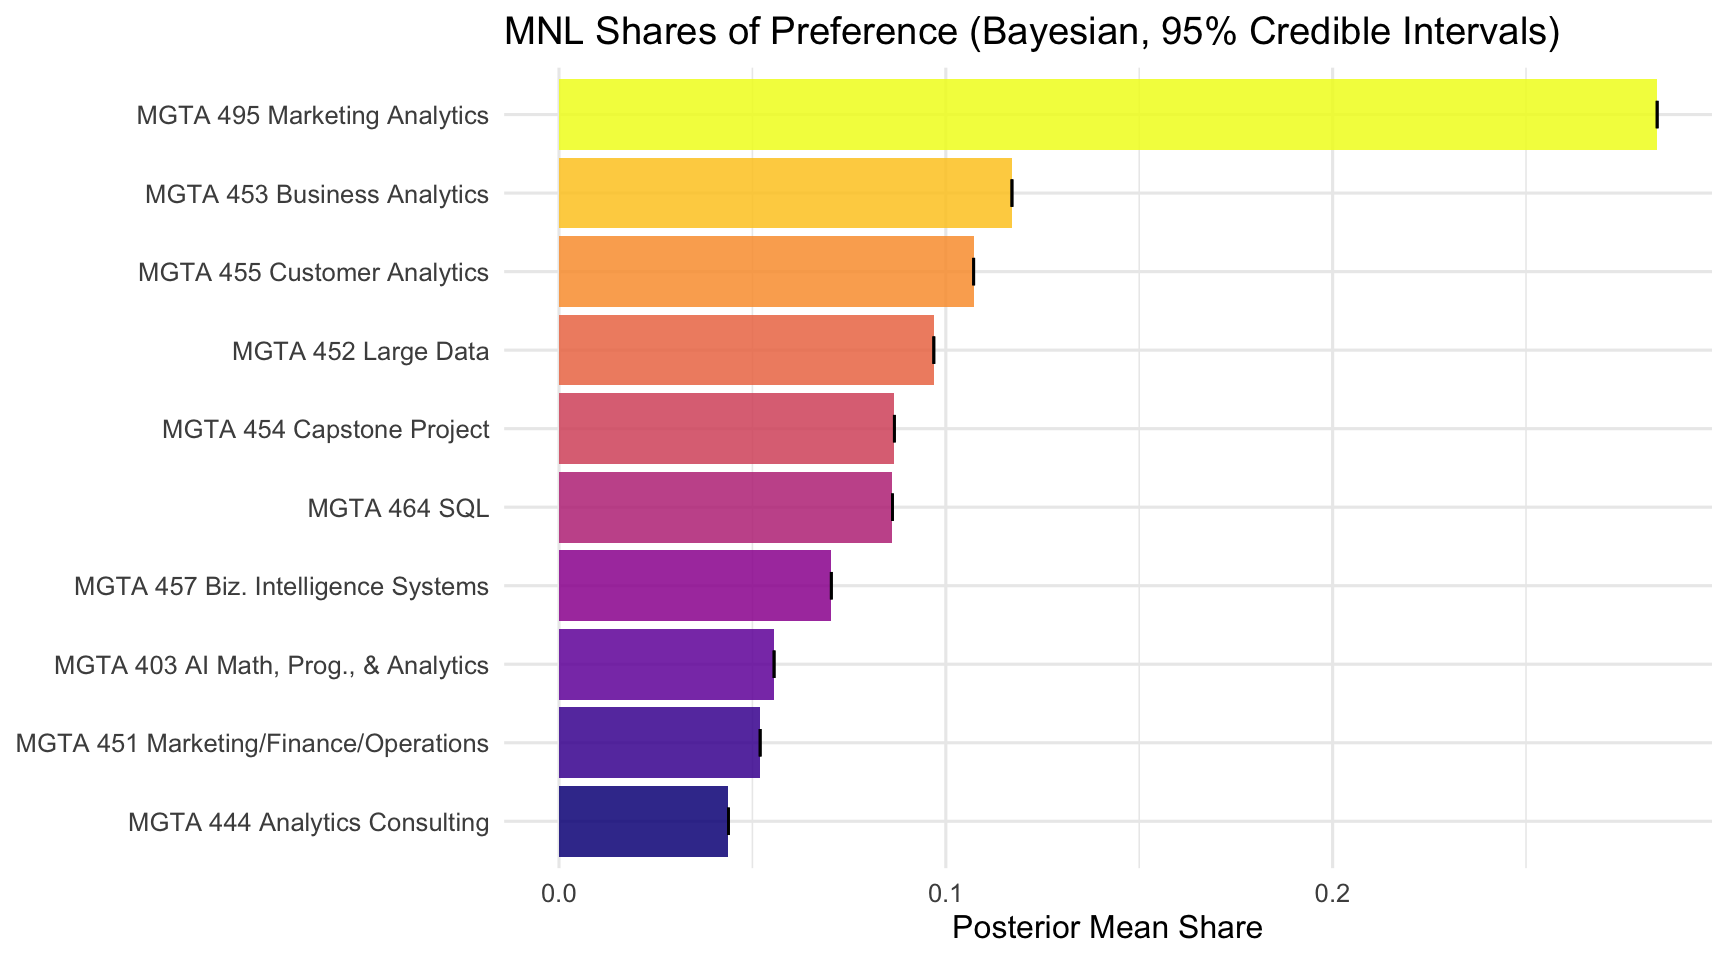
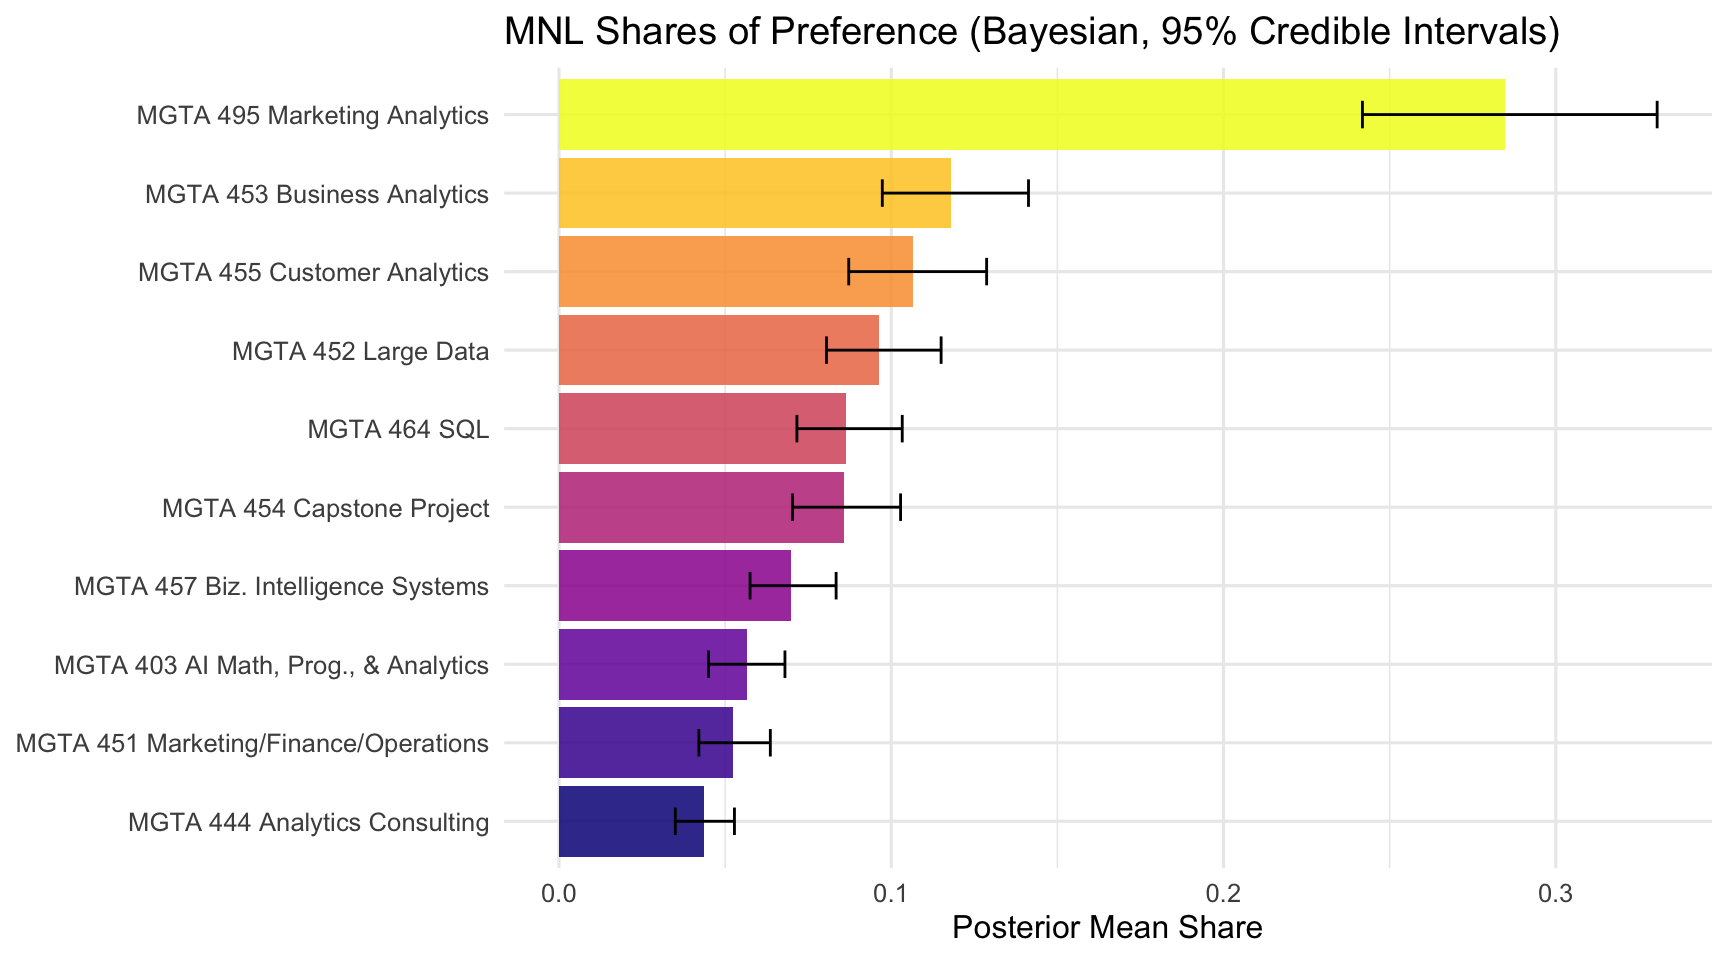
fix MCMC and numbers

diff --git a/docs/blog/Four-post.html b/docs/blog/Four-post.html
@@ -319,8 +319,8 @@ window.Quarto = {
 <span id="cb15-7"><a href="#cb15-7" aria-hidden="true" tabindex="-1"></a>    <span class="at">.groups =</span> <span class="st">"drop"</span></span>
 <span id="cb15-8"><a href="#cb15-8" aria-hidden="true" tabindex="-1"></a>  )</span>
 <span id="cb15-9"><a href="#cb15-9" aria-hidden="true" tabindex="-1"></a></span>
-<span id="cb15-10"><a href="#cb15-10" aria-hidden="true" tabindex="-1"></a>n_valid   <span class="ot">&lt;-</span> <span class="fu">sum</span>(check<span class="sc">$</span>n_best <span class="sc">==</span> <span class="dv">1</span> <span class="sc">&amp;</span> check<span class="sc">$</span>n_worst <span class="sc">==</span> <span class="dv">1</span> <span class="sc">&amp;</span> check<span class="sc">$</span>n_zero <span class="sc">==</span> <span class="dv">2</span>)</span>
-<span id="cb15-11"><a href="#cb15-11" aria-hidden="true" tabindex="-1"></a>n_total   <span class="ot">&lt;-</span> <span class="fu">nrow</span>(check)</span>
+<span id="cb15-10"><a href="#cb15-10" aria-hidden="true" tabindex="-1"></a>n_valid <span class="ot">&lt;-</span> <span class="fu">sum</span>(check<span class="sc">$</span>n_best <span class="sc">==</span> <span class="dv">1</span> <span class="sc">&amp;</span> check<span class="sc">$</span>n_worst <span class="sc">==</span> <span class="dv">1</span> <span class="sc">&amp;</span> check<span class="sc">$</span>n_zero <span class="sc">==</span> <span class="dv">2</span>)</span>
+<span id="cb15-11"><a href="#cb15-11" aria-hidden="true" tabindex="-1"></a>n_total <span class="ot">&lt;-</span> <span class="fu">nrow</span>(check)</span>
 <span id="cb15-12"><a href="#cb15-12" aria-hidden="true" tabindex="-1"></a></span>
 <span id="cb15-13"><a href="#cb15-13" aria-hidden="true" tabindex="-1"></a><span class="fu">cat</span>(<span class="st">"Total tasks:"</span>, n_total, <span class="st">"</span><span class="sc">\n</span><span class="st">"</span>)</span></code></pre></div><button title="Copy to Clipboard" class="code-copy-button"><i class="bi"></i></button></div>
 </details>
@@ -345,7 +345,7 @@ window.Quarto = {
 <div class="cell">
 <details class="code-fold">
 <summary>Code</summary>
-<div class="code-copy-outer-scaffold"><div class="sourceCode cell-code" id="cb21"><pre class="sourceCode r code-with-copy"><code class="sourceCode r"><span id="cb21-1"><a href="#cb21-1" aria-hidden="true" tabindex="-1"></a><span class="co"># Keep only tasks that are structurally complete (exactly 1 best, 1 worst, 2 neutral)</span></span>
+<div class="code-copy-outer-scaffold"><div class="sourceCode cell-code" id="cb21"><pre class="sourceCode r code-with-copy"><code class="sourceCode r"><span id="cb21-1"><a href="#cb21-1" aria-hidden="true" tabindex="-1"></a><span class="co"># Keep only tasks that are structurally complete</span></span>
 <span id="cb21-2"><a href="#cb21-2" aria-hidden="true" tabindex="-1"></a>valid_tasks <span class="ot">&lt;-</span> check <span class="sc">|&gt;</span></span>
 <span id="cb21-3"><a href="#cb21-3" aria-hidden="true" tabindex="-1"></a>  <span class="fu">filter</span>(n_best <span class="sc">==</span> <span class="dv">1</span>, n_worst <span class="sc">==</span> <span class="dv">1</span>, n_zero <span class="sc">==</span> <span class="dv">2</span>) <span class="sc">|&gt;</span></span>
 <span id="cb21-4"><a href="#cb21-4" aria-hidden="true" tabindex="-1"></a>  <span class="fu">select</span>(resp_id, task)</span>
@@ -672,7 +672,7 @@ window.Quarto = {
 </div>
 </div>
 </div>
-<p>The chart reveals a clear preference hierarchy. MGTA 495 Marketing Analytics ranks at the top by a wide margin (score = 0.567), while MGTA 444 Analytics Consulting ranks at the bottom (score = −0.155). The confidence intervals for the top and bottom items do not overlap with those in the middle, confirming these rankings are not driven by chance.</p>
+<p>The chart reveals a clear preference hierarchy. MGTA 495 Marketing Analytics ranks at the top by a wide margin (score = 0.493), while MGTA 444 Analytics Consulting ranks at the bottom (score = −0.292). The confidence intervals for the top and bottom items do not overlap with those in the middle, confirming these rankings are not driven by chance.</p>
 </section>
 <section id="from-maxdiff-data-to-mnl-choices" class="level2">
 <h2 class="anchored" data-anchor-id="from-maxdiff-data-to-mnl-choices">From MaxDiff Data to MNL Choices</h2>
@@ -925,7 +925,7 @@ P(\text{worst} = c \mid \text{best} = b) \;=\; \frac{\exp(-\beta_c)}{\exp(-\beta
 </div>
 </div>
 </div>
-<p>The MLE ranking closely mirrors the counts analysis — MGTA 495 Marketing Analytics is the most preferred class by a large margin, and MGTA 444 Analytics Consulting is the least preferred. Differences from the counts analysis appear in the middle tier, where the MNL makes more efficient use of the data: every task where an item was <em>shown but not picked</em> contributes evidence about its relative utility.</p>
+<p>The MLE ranking closely mirrors the counts analysis — MGTA 495 Marketing Analytics is the most preferred class by a large margin (share = 0.2839), and MGTA 444 Analytics Consulting is the least preferred (share = 0.0438). Differences from the counts analysis appear in the middle tier, where the MNL makes more efficient use of the data: every task where an item was <em>shown but not picked</em> contributes evidence about its relative utility.</p>
 </section>
 <section id="mnl-via-bayesian-estimation" class="level2">
 <h2 class="anchored" data-anchor-id="mnl-via-bayesian-estimation">MNL via Bayesian Estimation</h2>
@@ -974,13 +974,13 @@ P(\text{worst} = c \mid \text{best} = b) \;=\; \frac{\exp(-\beta_c)}{\exp(-\beta
 <div class="code-copy-outer-scaffold"><div class="sourceCode cell-code" id="cb45"><pre class="sourceCode r code-with-copy"><code class="sourceCode r"><span id="cb45-1"><a href="#cb45-1" aria-hidden="true" tabindex="-1"></a>mcmc_out <span class="ot">&lt;-</span> <span class="fu">mh</span>(</span>
 <span id="cb45-2"><a href="#cb45-2" aria-hidden="true" tabindex="-1"></a>  <span class="at">beta0    =</span> out<span class="sc">$</span>par,</span>
 <span id="cb45-3"><a href="#cb45-3" aria-hidden="true" tabindex="-1"></a>  <span class="at">n_iter   =</span> <span class="dv">20000</span>,</span>
-<span id="cb45-4"><a href="#cb45-4" aria-hidden="true" tabindex="-1"></a>  <span class="at">step     =</span> <span class="fl">0.8</span>,</span>
+<span id="cb45-4"><a href="#cb45-4" aria-hidden="true" tabindex="-1"></a>  <span class="at">step     =</span> <span class="fl">0.15</span>,      <span class="co"># tuned for ~25-40% acceptance rate</span></span>
 <span id="cb45-5"><a href="#cb45-5" aria-hidden="true" tabindex="-1"></a>  <span class="at">tasks_df =</span> tasks</span>
 <span id="cb45-6"><a href="#cb45-6" aria-hidden="true" tabindex="-1"></a>)</span>
 <span id="cb45-7"><a href="#cb45-7" aria-hidden="true" tabindex="-1"></a><span class="fu">cat</span>(<span class="st">"Acceptance rate:"</span>, <span class="fu">round</span>(mcmc_out<span class="sc">$</span>accept_rate <span class="sc">*</span> <span class="dv">100</span>, <span class="dv">1</span>), <span class="st">"%</span><span class="sc">\n</span><span class="st">"</span>)</span></code></pre></div><button title="Copy to Clipboard" class="code-copy-button"><i class="bi"></i></button></div>
 </details>
 <div class="cell-output cell-output-stdout">
-<pre><code>Acceptance rate: 0 %</code></pre>
+<pre><code>Acceptance rate: 6.2 %</code></pre>
 </div>
 </div>
 <div class="cell">
@@ -1051,10 +1051,10 @@ P(\text{worst} = c \mid \text{best} = b) \;=\; \frac{\exp(-\beta_c)}{\exp(-\beta
 <colgroup>
 <col style="width: 2%">
 <col style="width: 4%">
-<col style="width: 63%">
+<col style="width: 64%">
 <col style="width: 9%">
 <col style="width: 6%">
-<col style="width: 6%">
+<col style="width: 5%">
 <col style="width: 6%">
 </colgroup>
 <thead>
@@ -1073,64 +1073,64 @@ P(\text{worst} = c \mid \text{best} = b) \;=\; \frac{\exp(-\beta_c)}{\exp(-\beta
 <td style="text-align: left;">9</td>
 <td style="text-align: right;">9</td>
 <td style="text-align: left;">MGTA 495 Marketing Analytics (Spring with Yavorsky)</td>
-<td style="text-align: right;">1.630</td>
-<td style="text-align: right;">1.630</td>
-<td style="text-align: right;">1.630</td>
-<td style="text-align: right;">0.2839</td>
+<td style="text-align: right;">1.619</td>
+<td style="text-align: right;">1.321</td>
+<td style="text-align: right;">1.958</td>
+<td style="text-align: right;">0.2847</td>
 </tr>
 <tr class="even">
 <td style="text-align: left;">5</td>
 <td style="text-align: right;">5</td>
 <td style="text-align: left;">MGTA 453 Business Analytics (Fall with August)</td>
-<td style="text-align: right;">0.744</td>
-<td style="text-align: right;">0.744</td>
-<td style="text-align: right;">0.744</td>
-<td style="text-align: right;">0.1171</td>
+<td style="text-align: right;">0.737</td>
+<td style="text-align: right;">0.425</td>
+<td style="text-align: right;">1.025</td>
+<td style="text-align: right;">0.1179</td>
 </tr>
 <tr class="odd">
 <td style="text-align: left;">7</td>
 <td style="text-align: right;">7</td>
 <td style="text-align: left;">MGTA 455 Customer Analytics (Winter with Nijs)</td>
-<td style="text-align: right;">0.656</td>
-<td style="text-align: right;">0.656</td>
-<td style="text-align: right;">0.656</td>
-<td style="text-align: right;">0.1072</td>
+<td style="text-align: right;">0.636</td>
+<td style="text-align: right;">0.342</td>
+<td style="text-align: right;">0.941</td>
+<td style="text-align: right;">0.1066</td>
 </tr>
 <tr class="even">
 <td style="text-align: left;">4</td>
 <td style="text-align: right;">4</td>
 <td style="text-align: left;">MGTA 452 Large Data (Fall with Hansen)</td>
-<td style="text-align: right;">0.555</td>
-<td style="text-align: right;">0.555</td>
-<td style="text-align: right;">0.555</td>
-<td style="text-align: right;">0.0969</td>
+<td style="text-align: right;">0.535</td>
+<td style="text-align: right;">0.245</td>
+<td style="text-align: right;">0.853</td>
+<td style="text-align: right;">0.0964</td>
 </tr>
 <tr class="odd">
-<td style="text-align: left;">8</td>
-<td style="text-align: right;">8</td>
-<td style="text-align: left;">MGTA 454 Capstone Project (Spring with Advisor)</td>
-<td style="text-align: right;">0.443</td>
-<td style="text-align: right;">0.443</td>
-<td style="text-align: right;">0.443</td>
-<td style="text-align: right;">0.0867</td>
-</tr>
-<tr class="even">
 <td style="text-align: left;">2</td>
 <td style="text-align: right;">2</td>
 <td style="text-align: left;">MGTA 464 SQL (Summer with Nijs)</td>
-<td style="text-align: right;">0.438</td>
-<td style="text-align: right;">0.438</td>
-<td style="text-align: right;">0.438</td>
-<td style="text-align: right;">0.0862</td>
+<td style="text-align: right;">0.425</td>
+<td style="text-align: right;">0.170</td>
+<td style="text-align: right;">0.718</td>
+<td style="text-align: right;">0.0863</td>
+</tr>
+<tr class="even">
+<td style="text-align: left;">8</td>
+<td style="text-align: right;">8</td>
+<td style="text-align: left;">MGTA 454 Capstone Project (Spring with Advisor)</td>
+<td style="text-align: right;">0.419</td>
+<td style="text-align: right;">0.163</td>
+<td style="text-align: right;">0.719</td>
+<td style="text-align: right;">0.0859</td>
 </tr>
 <tr class="odd">
 <td style="text-align: left;">10</td>
 <td style="text-align: right;">10</td>
 <td style="text-align: left;">MGTA 457 Biz. Intelligence Systems (Fall with Schibler)</td>
-<td style="text-align: right;">0.236</td>
-<td style="text-align: right;">0.236</td>
-<td style="text-align: right;">0.236</td>
-<td style="text-align: right;">0.0704</td>
+<td style="text-align: right;">0.211</td>
+<td style="text-align: right;">-0.048</td>
+<td style="text-align: right;">0.488</td>
+<td style="text-align: right;">0.0698</td>
 </tr>
 <tr class="even">
 <td style="text-align: left;">1</td>
@@ -1139,25 +1139,25 @@ P(\text{worst} = c \mid \text{best} = b) \;=\; \frac{\exp(-\beta_c)}{\exp(-\beta
 <td style="text-align: right;">0.000</td>
 <td style="text-align: right;">0.000</td>
 <td style="text-align: right;">0.000</td>
-<td style="text-align: right;">0.0556</td>
+<td style="text-align: right;">0.0565</td>
 </tr>
 <tr class="odd">
 <td style="text-align: left;">3</td>
 <td style="text-align: right;">3</td>
 <td style="text-align: left;">MGTA 451 Marketing/Finance/Operations (Summer with Wilbur/Buti/Shin)</td>
-<td style="text-align: right;">-0.067</td>
-<td style="text-align: right;">-0.067</td>
-<td style="text-align: right;">-0.067</td>
-<td style="text-align: right;">0.0520</td>
+<td style="text-align: right;">-0.077</td>
+<td style="text-align: right;">-0.355</td>
+<td style="text-align: right;">0.191</td>
+<td style="text-align: right;">0.0523</td>
 </tr>
 <tr class="even">
 <td style="text-align: left;">6</td>
 <td style="text-align: right;">6</td>
 <td style="text-align: left;">MGTA 444 Analytics Consulting (Winter with Peterson)</td>
-<td style="text-align: right;">-0.239</td>
-<td style="text-align: right;">-0.239</td>
-<td style="text-align: right;">-0.239</td>
-<td style="text-align: right;">0.0438</td>
+<td style="text-align: right;">-0.261</td>
+<td style="text-align: right;">-0.535</td>
+<td style="text-align: right;">0.026</td>
+<td style="text-align: right;">0.0435</td>
 </tr>
 </tbody>
 </table>
@@ -1237,64 +1237,64 @@ P(\text{worst} = c \mid \text{best} = b) \;=\; \frac{\exp(-\beta_c)}{\exp(-\beta
 <td style="text-align: left;">MGTA 464 SQL (Summer with Nijs)</td>
 <td style="text-align: right;">0.438</td>
 <td style="text-align: right;">0.137</td>
-<td style="text-align: right;">0.438</td>
-<td style="text-align: right;">0</td>
+<td style="text-align: right;">0.425</td>
+<td style="text-align: right;">0.139</td>
 </tr>
 <tr class="odd">
 <td style="text-align: left;">MGTA 451 Marketing/Finance/Operations (Summer with Wilbur/Buti/Shin)</td>
 <td style="text-align: right;">-0.067</td>
 <td style="text-align: right;">0.139</td>
-<td style="text-align: right;">-0.067</td>
-<td style="text-align: right;">0</td>
+<td style="text-align: right;">-0.077</td>
+<td style="text-align: right;">0.149</td>
 </tr>
 <tr class="even">
 <td style="text-align: left;">MGTA 452 Large Data (Fall with Hansen)</td>
 <td style="text-align: right;">0.555</td>
 <td style="text-align: right;">0.140</td>
-<td style="text-align: right;">0.555</td>
-<td style="text-align: right;">0</td>
+<td style="text-align: right;">0.535</td>
+<td style="text-align: right;">0.145</td>
 </tr>
 <tr class="odd">
 <td style="text-align: left;">MGTA 453 Business Analytics (Fall with August)</td>
 <td style="text-align: right;">0.744</td>
 <td style="text-align: right;">0.142</td>
-<td style="text-align: right;">0.744</td>
-<td style="text-align: right;">0</td>
+<td style="text-align: right;">0.737</td>
+<td style="text-align: right;">0.147</td>
 </tr>
 <tr class="even">
 <td style="text-align: left;">MGTA 444 Analytics Consulting (Winter with Peterson)</td>
 <td style="text-align: right;">-0.239</td>
 <td style="text-align: right;">0.141</td>
-<td style="text-align: right;">-0.239</td>
-<td style="text-align: right;">0</td>
+<td style="text-align: right;">-0.261</td>
+<td style="text-align: right;">0.141</td>
 </tr>
 <tr class="odd">
 <td style="text-align: left;">MGTA 455 Customer Analytics (Winter with Nijs)</td>
 <td style="text-align: right;">0.656</td>
 <td style="text-align: right;">0.142</td>
-<td style="text-align: right;">0.656</td>
-<td style="text-align: right;">0</td>
+<td style="text-align: right;">0.636</td>
+<td style="text-align: right;">0.147</td>
 </tr>
 <tr class="even">
 <td style="text-align: left;">MGTA 454 Capstone Project (Spring with Advisor)</td>
 <td style="text-align: right;">0.443</td>
 <td style="text-align: right;">0.140</td>
-<td style="text-align: right;">0.443</td>
-<td style="text-align: right;">0</td>
+<td style="text-align: right;">0.419</td>
+<td style="text-align: right;">0.141</td>
 </tr>
 <tr class="odd">
 <td style="text-align: left;">MGTA 495 Marketing Analytics (Spring with Yavorsky)</td>
 <td style="text-align: right;">1.630</td>
 <td style="text-align: right;">0.146</td>
-<td style="text-align: right;">1.630</td>
-<td style="text-align: right;">0</td>
+<td style="text-align: right;">1.619</td>
+<td style="text-align: right;">0.157</td>
 </tr>
 <tr class="even">
 <td style="text-align: left;">MGTA 457 Biz. Intelligence Systems (Fall with Schibler)</td>
 <td style="text-align: right;">0.236</td>
 <td style="text-align: right;">0.137</td>
-<td style="text-align: right;">0.236</td>
-<td style="text-align: right;">0</td>
+<td style="text-align: right;">0.211</td>
+<td style="text-align: right;">0.143</td>
 </tr>
 </tbody>
 </table>
@@ -1354,7 +1354,7 @@ P(\text{worst} = c \mid \text{best} = b) \;=\; \frac{\exp(-\beta_c)}{\exp(-\beta
 <td style="text-align: right;">1</td>
 <td style="text-align: right;">0.2839</td>
 <td style="text-align: right;">1</td>
-<td style="text-align: right;">0.2839</td>
+<td style="text-align: right;">0.2847</td>
 <td style="text-align: right;">1</td>
 </tr>
 <tr class="even">
@@ -1363,7 +1363,7 @@ P(\text{worst} = c \mid \text{best} = b) \;=\; \frac{\exp(-\beta_c)}{\exp(-\beta
 <td style="text-align: right;">2</td>
 <td style="text-align: right;">0.1171</td>
 <td style="text-align: right;">2</td>
-<td style="text-align: right;">0.1171</td>
+<td style="text-align: right;">0.1179</td>
 <td style="text-align: right;">2</td>
 </tr>
 <tr class="odd">
@@ -1372,7 +1372,7 @@ P(\text{worst} = c \mid \text{best} = b) \;=\; \frac{\exp(-\beta_c)}{\exp(-\beta
 <td style="text-align: right;">3</td>
 <td style="text-align: right;">0.1072</td>
 <td style="text-align: right;">3</td>
-<td style="text-align: right;">0.1072</td>
+<td style="text-align: right;">0.1066</td>
 <td style="text-align: right;">3</td>
 </tr>
 <tr class="even">
@@ -1381,7 +1381,7 @@ P(\text{worst} = c \mid \text{best} = b) \;=\; \frac{\exp(-\beta_c)}{\exp(-\beta
 <td style="text-align: right;">4</td>
 <td style="text-align: right;">0.0969</td>
 <td style="text-align: right;">4</td>
-<td style="text-align: right;">0.0969</td>
+<td style="text-align: right;">0.0964</td>
 <td style="text-align: right;">4</td>
 </tr>
 <tr class="odd">
@@ -1390,8 +1390,8 @@ P(\text{worst} = c \mid \text{best} = b) \;=\; \frac{\exp(-\beta_c)}{\exp(-\beta
 <td style="text-align: right;">5</td>
 <td style="text-align: right;">0.0867</td>
 <td style="text-align: right;">5</td>
-<td style="text-align: right;">0.0867</td>
-<td style="text-align: right;">5</td>
+<td style="text-align: right;">0.0859</td>
+<td style="text-align: right;">6</td>
 </tr>
 <tr class="even">
 <td style="text-align: left;">MGTA 464 SQL (Summer with Nijs)</td>
@@ -1399,8 +1399,8 @@ P(\text{worst} = c \mid \text{best} = b) \;=\; \frac{\exp(-\beta_c)}{\exp(-\beta
 <td style="text-align: right;">6</td>
 <td style="text-align: right;">0.0862</td>
 <td style="text-align: right;">6</td>
-<td style="text-align: right;">0.0862</td>
-<td style="text-align: right;">6</td>
+<td style="text-align: right;">0.0863</td>
+<td style="text-align: right;">5</td>
 </tr>
 <tr class="odd">
 <td style="text-align: left;">MGTA 457 Biz. Intelligence Systems (Fall with Schibler)</td>
@@ -1408,7 +1408,7 @@ P(\text{worst} = c \mid \text{best} = b) \;=\; \frac{\exp(-\beta_c)}{\exp(-\beta
 <td style="text-align: right;">7</td>
 <td style="text-align: right;">0.0704</td>
 <td style="text-align: right;">7</td>
-<td style="text-align: right;">0.0704</td>
+<td style="text-align: right;">0.0698</td>
 <td style="text-align: right;">7</td>
 </tr>
 <tr class="even">
@@ -1417,7 +1417,7 @@ P(\text{worst} = c \mid \text{best} = b) \;=\; \frac{\exp(-\beta_c)}{\exp(-\beta
 <td style="text-align: right;">8</td>
 <td style="text-align: right;">0.0556</td>
 <td style="text-align: right;">8</td>
-<td style="text-align: right;">0.0556</td>
+<td style="text-align: right;">0.0565</td>
 <td style="text-align: right;">8</td>
 </tr>
 <tr class="odd">
@@ -1426,7 +1426,7 @@ P(\text{worst} = c \mid \text{best} = b) \;=\; \frac{\exp(-\beta_c)}{\exp(-\beta
 <td style="text-align: right;">9</td>
 <td style="text-align: right;">0.0520</td>
 <td style="text-align: right;">9</td>
-<td style="text-align: right;">0.0520</td>
+<td style="text-align: right;">0.0523</td>
 <td style="text-align: right;">9</td>
 </tr>
 <tr class="even">
@@ -1435,7 +1435,7 @@ P(\text{worst} = c \mid \text{best} = b) \;=\; \frac{\exp(-\beta_c)}{\exp(-\beta
 <td style="text-align: right;">10</td>
 <td style="text-align: right;">0.0438</td>
 <td style="text-align: right;">10</td>
-<td style="text-align: right;">0.0438</td>
+<td style="text-align: right;">0.0435</td>
 <td style="text-align: right;">10</td>
 </tr>
 </tbody>
@@ -1496,7 +1496,7 @@ P(\text{worst} = c \mid \text{best} = b) \;=\; \frac{\exp(-\beta_c)}{\exp(-\beta
 </section>
 <section id="discussion" class="level2">
 <h2 class="anchored" data-anchor-id="discussion">Discussion</h2>
-<p>Across all three methods, the analysis reveals a consistent and interpretable preference hierarchy among the 10 MSBA core classes at UCSD Rady. MGTA 495 Marketing Analytics ranks first by a substantial margin (counts score 0.567, MLE share 0.284), suggesting students strongly value applied, career-facing analytics coursework. MGTA 453 Business Analytics and MGTA 455 Customer Analytics follow in second and third place. At the bottom, MGTA 444 Analytics Consulting (counts score −0.155) and MGTA 451 Marketing/Finance/Operations rank as the least preferred — perhaps because students perceive them as less analytically distinctive or more obligatory in nature.</p>
+<p>Across all three methods, the analysis reveals a consistent and interpretable preference hierarchy among the 10 MSBA core classes at UCSD Rady. MGTA 495 Marketing Analytics ranks first by a substantial margin (counts score 0.493, MLE share 0.284), suggesting students strongly value applied, career-facing analytics coursework. MGTA 453 Business Analytics and MGTA 455 Customer Analytics follow in second and third place. At the bottom, MGTA 444 Analytics Consulting (counts score −0.292) and MGTA 451 Marketing/Finance/Operations rank as the least preferred — perhaps because students perceive them as less analytically distinctive or more obligatory in nature.</p>
 <p>For what kind of question would you reach for each method? Counts is ideal for a quick executive summary — no modeling assumptions, easy to explain to any audience. MLE provides rigorous point estimates with classical standard errors, the right tool when a single number needs to be reported. Bayesian inference shines when uncertainty on derived quantities matters: shares of preference, pairwise probability statements, or market simulations are all trivial to compute from MCMC draws without relying on approximations like the delta method.</p>
 <p>Several caveats apply. The survey was administered to a self-selected sample of current MSBA students; preferences may not generalize to prospective students, alumni, or future cohorts. Item presentation order, prior coursework, and current standing in the program may all affect responses in ways we cannot disentangle from the data.</p>
 <p>If I had more time, I would extend the model to a hierarchical (mixed) MNL that treats each respondent’s <span class="math inline">\(\boldsymbol{\beta}_i\)</span> as a draw from a shared multivariate normal population distribution. This would reveal preference heterogeneity across students — for example, whether students in different specialization tracks value different classes — and produce more accurate individual-level utility estimates.</p>

diff --git a/docs/blog.html b/docs/blog.html
@@ -190,7 +190,7 @@ window.Quarto = {
 
 <div class="quarto-listing quarto-listing-container-grid" id="listing-listing">
 <div class="list grid quarto-listing-cols-3">
-<div class="g-col-1" data-index="0" data-listing-date-sort="1779951600000" data-listing-file-modified-sort="1780026702142" data-listing-date-modified-sort="NaN" data-listing-reading-time-sort="17" data-listing-word-count-sort="3328">
+<div class="g-col-1" data-index="0" data-listing-date-sort="1779951600000" data-listing-file-modified-sort="1780027478916" data-listing-date-modified-sort="NaN" data-listing-reading-time-sort="17" data-listing-word-count-sort="3334">
 <a href="./blog/Four-post.html" class="quarto-grid-link">
 <div class="quarto-grid-item card h-100 card-left">
 <p class="card-img-top"><img loading='lazy' src="blog/Four-post_files/figure-html/counts-bootstrap-1.png" style="height: 150px;"  class="thumbnail-image card-img"/></p>